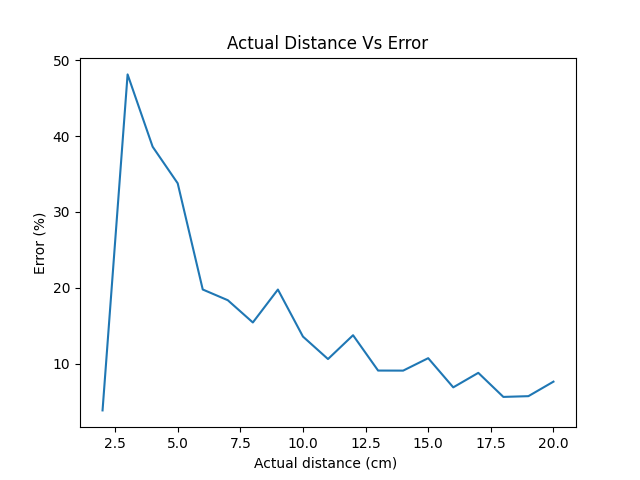
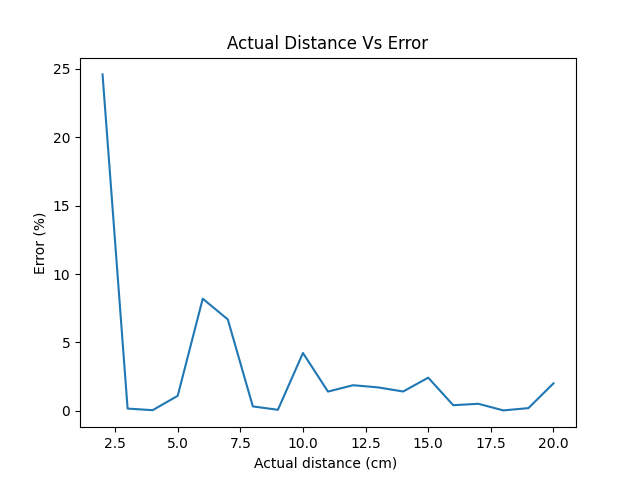
Updated 03-Mar

diff --git a/3_03MAR21/runC_error_autoGraph.py b/3_03MAR21/runC_error_autoGraph.py
@@ -86,7 +86,7 @@ def insertNewData( fileName, values, actual_val ):
 
        
         # Add error term to Most-repeated value ( i.e, each )
-        new_val = repeat_val + error_terms.pop(0)
+        new_val = repeat_val - error_terms.pop(0)
         
         err = round( new_val- actual_val, 3)
 

diff --git a/3_03MAR21/ultraS_14cm_25ms_1.md b/3_03MAR21/ultraS_14cm_25ms_1.md
@@ -28,4 +28,23 @@ Actual | Temp. 1 | Temp. 2 | Obs. 1 | Obs. 2 | Obs. 3 | Obs. 4 | Obs. 5 | Repeat
  18cm | 31.20 'C | 31.10 'C | 17.458 | 17.528 | 17.528 | 17.545 | 15.322 | 2 | 17.527 | -0.473
  19cm | 31.10 'C | 31.10 'C | 18.365 | 18.453 | 18.453 | 18.435 | 18.453 | 3 | 18.452 | -0.548
  20cm | 31.20 'C | 31.10 'C | 18.943 | 19.100 | 19.013 | 19.013 | 18.995 | 2 | 19.012 | -0.988
+ 2cm | 30.90 'C | 30.90 'C | 2.153 | 2.293 | 2.275 | 2.293 | 2.275 | 2 | 2.292 | 0.292
+ 3cm | 30.90 'C | 31.00 'C | 2.205 | 2.275 | 2.275 | 2.275 | 2.275 | 4 | 2.275 | -0.725
+ 4cm | 31.00 'C | 30.90 'C | 3.115 | 3.203 | 3.185 | 3.203 | 3.203 | 3 | 3.202 | -0.798
+ 5cm | 30.90 'C | 30.90 'C | 4.183 | 4.235 | 4.235 | 4.235 | 4.235 | 4 | 4.235 | -0.765
+ 6cm | 30.90 'C | 30.90 'C | 5.548 | 5.653 | 5.653 | 5.653 | 4.428 | 3 | 5.652 | -0.348
+ 7cm | 30.90 'C | 31.00 'C | 6.531 | 6.618 | 6.618 | 6.618 | 6.461 | 3 | 6.618 | -0.382
+ 8cm | 30.90 'C | 31.00 'C | 7.054 | 7.124 | 7.124 | 7.124 | 7.089 | 3 | 7.124 | -0.876
+ 9cm | 31.00 'C | 31.00 'C | 8.104 | 8.157 | 8.175 | 7.842 | 8.157 | 2 | 8.157 | -0.843
+ 10cm | 31.00 'C | 30.90 'C | 9.503 | 9.573 | 9.573 | 9.573 | 9.556 | 3 | 9.573 | -0.427
+ 11cm | 31.00 'C | 31.00 'C | 9.958 | 10.046 | 10.063 | 10.046 | 10.046 | 3 | 10.045 | -0.955
+ 12cm | 30.90 'C | 30.90 'C | 10.973 | 11.026 | 11.026 | 11.043 | 11.026 | 3 | 11.025 | -0.975
+ 13cm | 30.90 'C | 30.90 'C | 11.973 | 12.060 | 12.078 | 12.078 | 12.095 | 2 | 12.077 | -0.923
+ 14cm | 31.00 'C | 30.90 'C | 13.461 | 13.513 | 13.548 | 13.548 | 13.531 | 2 | 13.548 | -0.452
+ 15cm | 30.90 'C | 30.90 'C | 14.386 | 14.036 | 14.439 | 14.036 | 14.036 | 3 | 14.036 | -0.964
+ 16cm | 30.90 'C | 30.90 'C | 15.419 | 15.506 | 15.506 | 15.506 | 15.506 | 4 | 15.506 | -0.494
+ 17cm | 30.90 'C | 30.90 'C | 16.416 | 16.556 | 16.539 | 16.049 | 16.539 | 2 | 16.538 | -0.462
+ 18cm | 30.90 'C | 31.00 'C | 17.379 | 17.466 | 17.484 | 17.466 | 17.466 | 3 | 17.466 | -0.534
+ 19cm | 30.90 'C | 31.00 'C | 18.411 | 18.499 | 18.516 | 18.499 | 18.499 | 3 | 18.498 | -0.502
+ 20cm | 30.90 'C | 30.90 'C | 19.006 | 19.059 | 19.059 | 19.059 | 19.059 | 4 | 19.058 | -0.942
  

diff --git a/3_03MAR21/ultraS_newError_1.md b/3_03MAR21/ultraS_newError_1.md
@@ -29,4 +29,23 @@ Actual | Temp. 1 | Temp. 2 | Repeat Count | Repeat Value | Error Rate | New Valu
  18cm | 31.20 'C | 31.10 'C | 2 | 17.527 | -0.473 | 16.987000000000002 | -1.013 
  19cm | 31.10 'C | 31.10 'C | 3 | 18.452 | -0.548 | 17.912000000000003 | -1.088 
  20cm | 31.20 'C | 31.10 'C | 2 | 19.012 | -0.988 | 18.472 | -1.528 
+ 2cm | 30.90 'C | 30.90 'C | 2 | 2.292 | 0.292 | 2.492 | 0.492 
+ 3cm | 30.90 'C | 31.00 'C | 4 | 2.275 | -0.725 | 2.995 | -0.005 
+ 4cm | 31.00 'C | 30.90 'C | 3 | 3.202 | -0.798 | 4.002 | 0.002 
+ 5cm | 30.90 'C | 30.90 'C | 4 | 4.235 | -0.765 | 5.055000000000001 | 0.055 
+ 6cm | 30.90 'C | 30.90 'C | 3 | 5.652 | -0.348 | 6.492 | 0.492 
+ 7cm | 30.90 'C | 31.00 'C | 3 | 6.618 | -0.382 | 7.468 | 0.468 
+ 8cm | 30.90 'C | 31.00 'C | 3 | 7.124 | -0.876 | 7.973999999999999 | -0.026 
+ 9cm | 31.00 'C | 31.00 'C | 2 | 8.157 | -0.843 | 9.007 | 0.007 
+ 10cm | 31.00 'C | 30.90 'C | 3 | 9.573 | -0.427 | 10.423 | 0.423 
+ 11cm | 31.00 'C | 31.00 'C | 3 | 10.045 | -0.955 | 10.845 | -0.155 
+ 12cm | 30.90 'C | 30.90 'C | 3 | 11.025 | -0.975 | 11.775 | -0.225 
+ 13cm | 30.90 'C | 30.90 'C | 2 | 12.077 | -0.923 | 12.777 | -0.223 
+ 14cm | 31.00 'C | 30.90 'C | 2 | 13.548 | -0.452 | 14.198 | 0.198 
+ 15cm | 30.90 'C | 30.90 'C | 3 | 14.036 | -0.964 | 14.636 | -0.364 
+ 16cm | 30.90 'C | 30.90 'C | 4 | 15.506 | -0.494 | 16.066 | 0.066 
+ 17cm | 30.90 'C | 30.90 'C | 2 | 16.538 | -0.462 | 17.088 | 0.088 
+ 18cm | 30.90 'C | 31.00 'C | 3 | 17.466 | -0.534 | 18.006 | 0.006 
+ 19cm | 30.90 'C | 31.00 'C | 3 | 18.498 | -0.502 | 19.038 | 0.038 
+ 20cm | 30.90 'C | 30.90 'C | 4 | 19.058 | -0.942 | 19.598 | -0.402 
  
